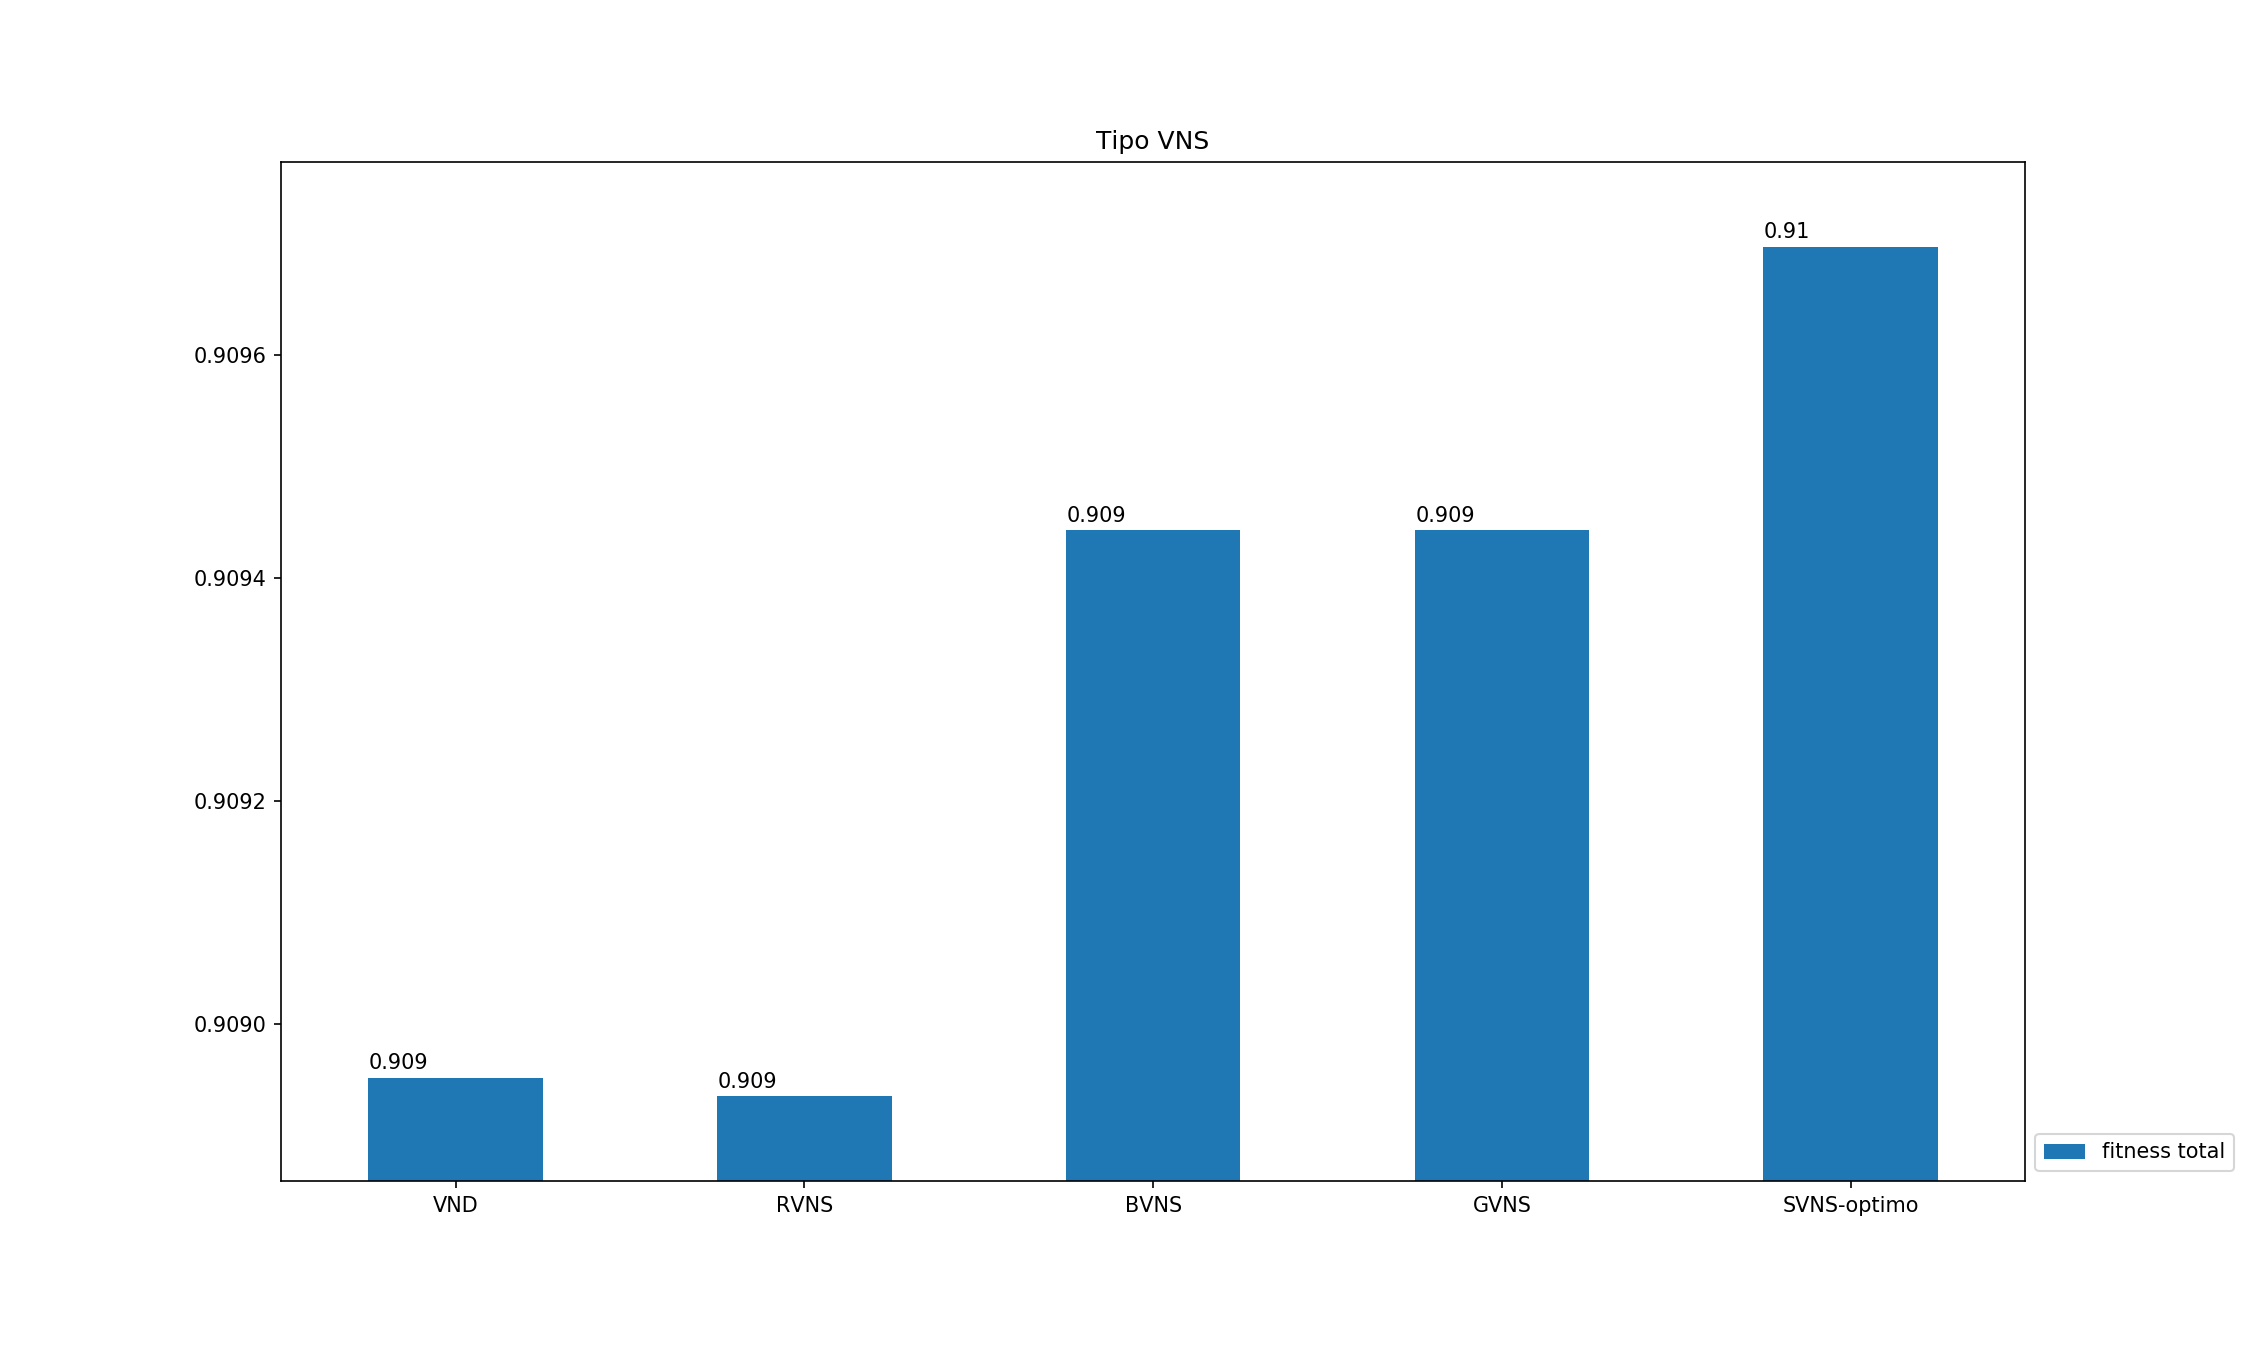
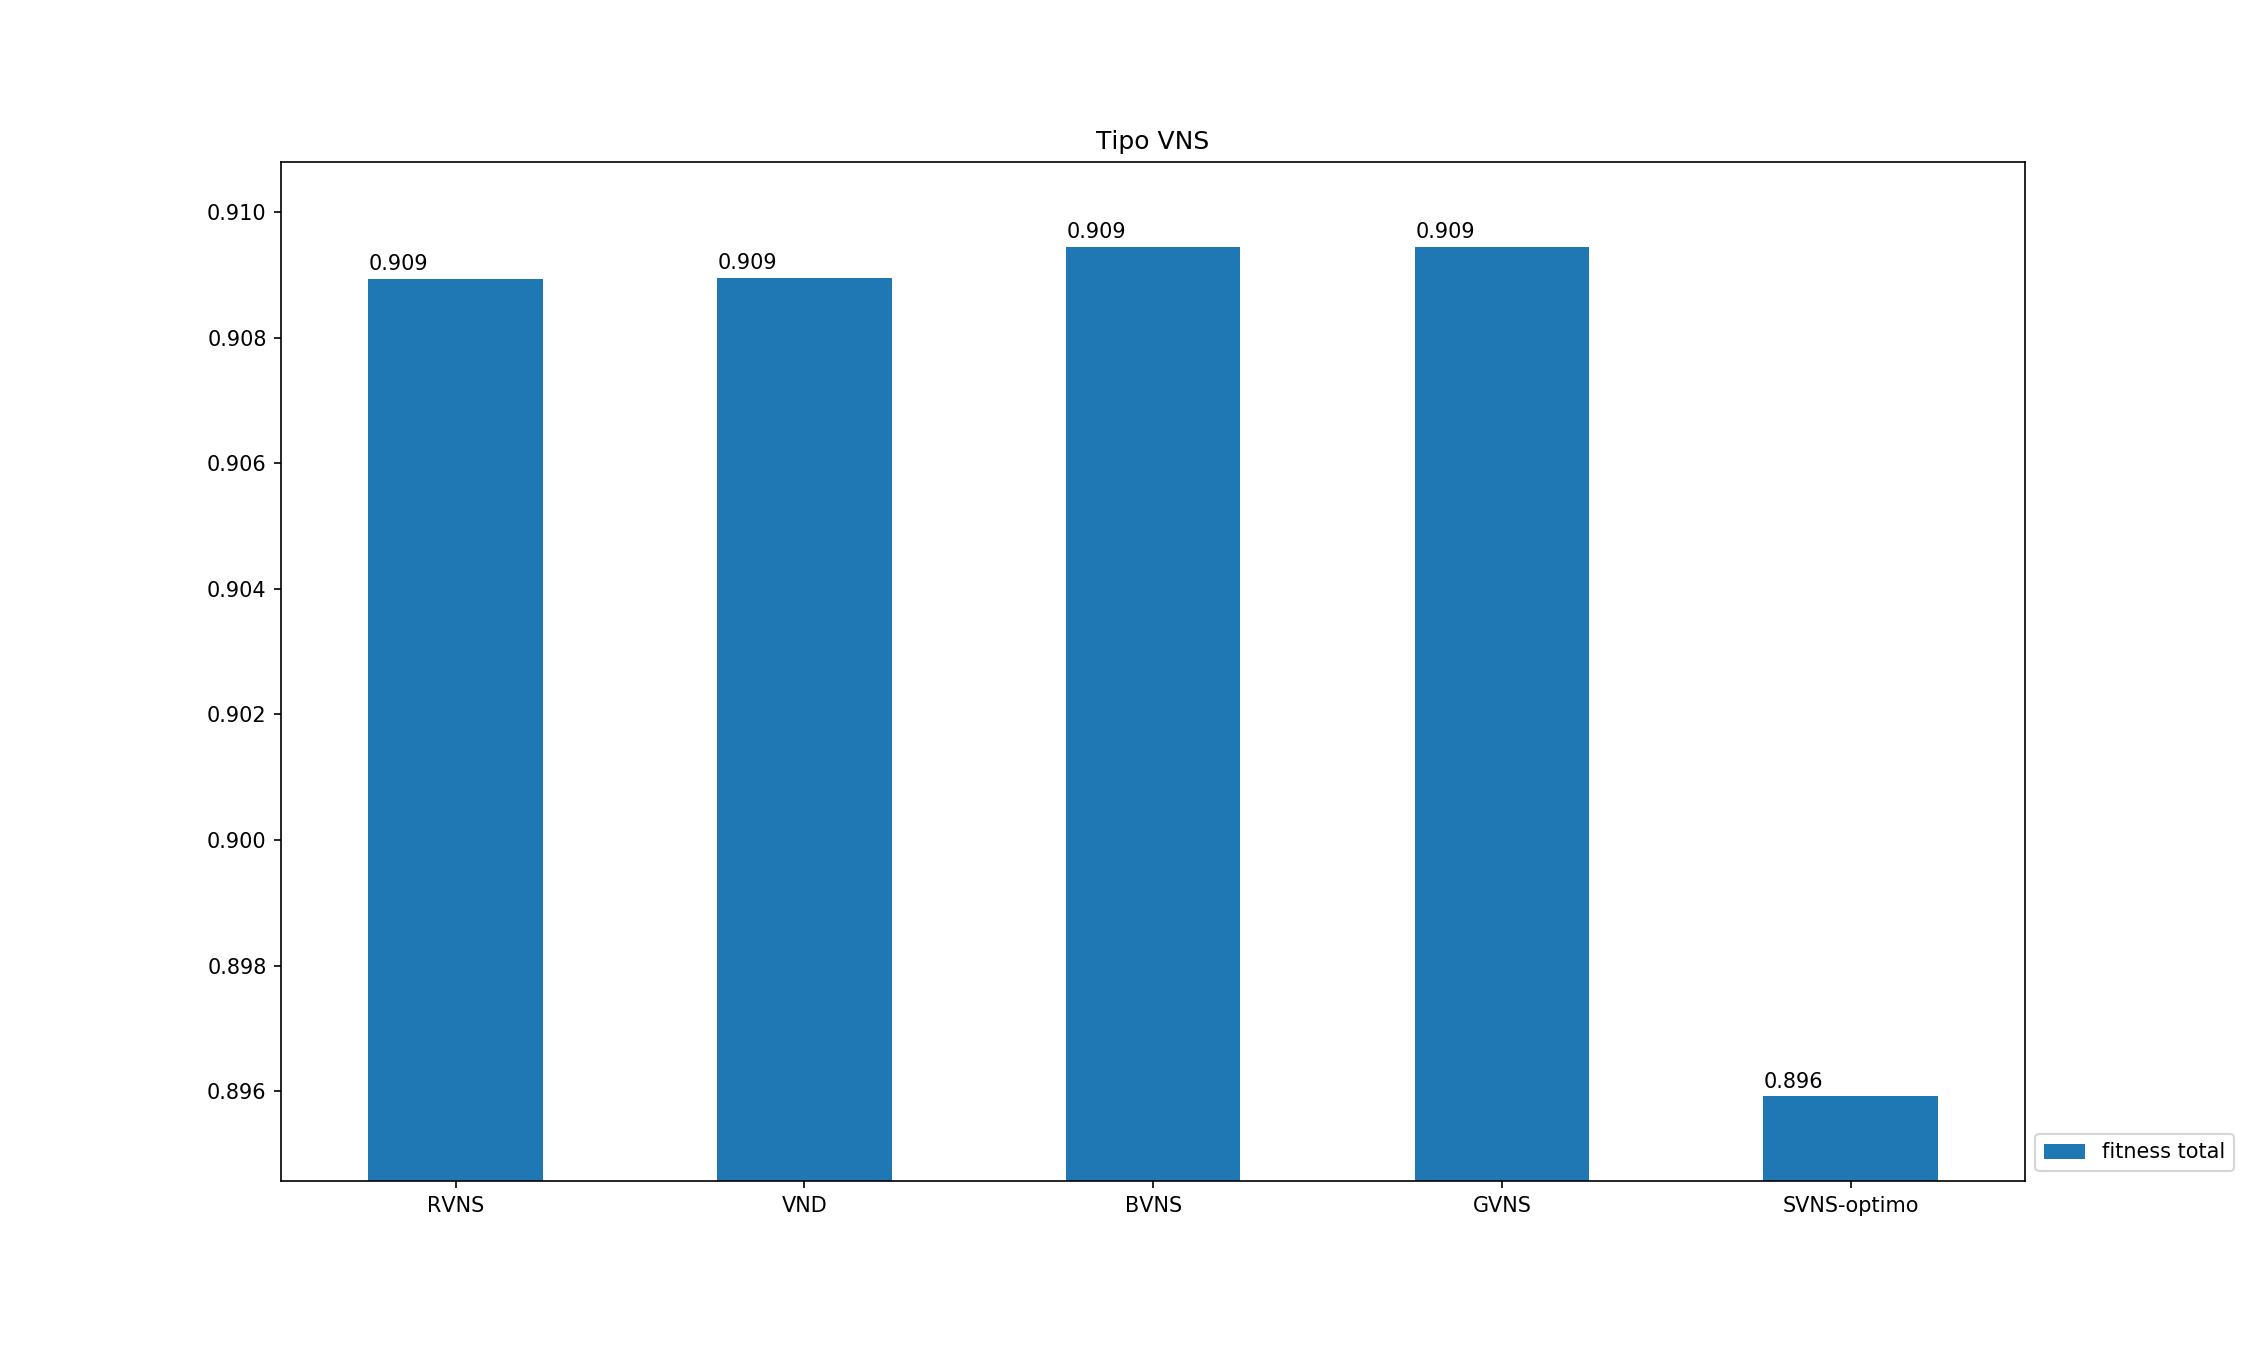
Finnished subsection Parameter Tunning
Fixed labeling errores in chapter 4

diff --git a/src/capitulos/Capitulo5-Resultados-experimentales/Capitulo5.tex b/src/capitulos/Capitulo5-Resultados-experimentales/Capitulo5.tex
@@ -95,38 +95,104 @@ El proceso que nos ocupa fue realizado siguiendo el procedimiento descrito anter
 	\label{table:5:tunning-results}
 \end{table}
 
-Como puede verse, por lo general la implementación de VNS que mejores resultados alcanza para la mayoría de los casos es su versión más sencilla: el VND. No obstante, encontrarnos en los casos X e Y %TODO
-que la versión que acepta soluciones peores, el SVNS, aporta una mejora suficientemente significativa a las soluciones que logra alcanzar el sistema. Como muestra la \autoref{caso4-tipo-orden-tiempo} las variaciones no suelen ser muy grandes entre sí.
+Como puede verse, por lo general la implementación de VNS que mejores resultados alcanza para la mayoría de los casos es su versión más sencilla: el \textit{VND}. No obstante, encontrarnos cuatro casos en los que la variante Basic, \textit{BVNS}, aporta resultados significativamente mejores en las soluciones que logra alcanzar el sistema. Sin embargo, tal y como muestra la \autoref{fig:caso4-tipo-orden-tiempo} las variaciones no suelen ser muy grandes entre sí, a escepción del \textit{SVNS}, que es el que peores resultados obtiene.
 
 \begin{figure}
 	\centering
-	\includegraphics[width=1\linewidth]{capitulos/Capitulo5-Resultados-experimentales/recursos/caso4-tipo-orden-tiempo}
+	\includegraphics[width=\linewidth]{capitulos/Capitulo5-Resultados-experimentales/recursos/caso4-tipo-orden-tiempo}
 	\caption{Variación del fitness según el tipo de VNS para el caso 4. Ordenado según el tiempo de ejecución de cada uno}
 	\label{fig:caso4-tipo-orden-tiempo}
 \end{figure}
 
-Sin embargo, esta mejora se obtiene a costa de una mayor necesidad de tiempo de cómputo, con una diferencia de $31.341$ segundos para el caso 4. Sin duda hemos observado que el VND es el tipo de VNS que menos tiempo de cómputo requiere. La \autoref{fig:caso4-tipo-orden-tiempo} ofrece adicionalmente un ranking donde nos muestra de forma ordenada los tipos de VNS que más tiempo consumen: como era de esperar, el SVNS y el GVNS son los más costosos, mientras que el VND y RVNS los que menos.
+Sin embargo, esta mejora se obtiene a costa de una mayor necesidad de tiempo de cómputo, con una diferencia de $31.2762$ segundos para el caso 4 del \textit{BVNS} frente al \textit{VND}. Sin duda hemos observado que el \textit{RVND} es el tipo de VNS que menos tiempo de cómputo requiere, pero suele ser el que peores resultados alcanza junto con el \textit{SVNS}. La \autoref{fig:caso4-tipo-orden-tiempo} ofrece adicionalmente un ranking donde nos muestra de forma ordenada los tipos de VNS que más tiempo consumen: como era de esperar, el \textit{SVNS} y el \textit{GVNS} son los más costosos, mientras que el \textit{VND} y \textit{RVNS} los que menos. Por su parte, el \textit{GVNS} y el \textit{BVNS} dan resultados que en la mayoría de los casos son muy similares entre sí, a excepción de en el caso 1 y el 3, donde los resultados son más dispares, en casos de empate, se ha optado por usar la versión menos costosa computacionalmente, que es el \textit{BVNS}.
 
-En cuanto al orden de los entornos, no hay una clara tendencia, sino que depende más bien del caso concreto. Sin embargo, la selección óptima de los mismos es claramente determinista, salvo en el caso 5 %TODO: alguno más??
-en el una comparativa nos dice que la mejoría que aporta no es demasiado grande, del orden de una milésima (véase la \autoref{fig:caso5-naturaleza-entornos}) aunque para éste caso concreto, con la opción probabilística, el número de restricciones incumplidas en la solución final es menos dispersa que en la determinista, es decir, que la diferencia entre una ejecución u otra no es tan grande como en el caso de la determinista. No obstante, para el resto de casos ésta dispersión no sucede de una forma tan significativa.
+En la \autoref{fig:caso4y9comparativa-tipos-vnsiteracion} podemos observar la evolución por iteraciones de cada VNS, donde podemos apreciar cómo, a diferencia del resto, el \textit{SVNS} no es estrictamente creciente, aceptando soluciones peores. La línea \textit{SVNS-optimo} señala la mejor solución alcanzada hasta el momento por el \textit{SVNS}, que como podemos ver, no alcanza resultados tan buenos como los del resto. Cada ejecución termina cuando se alcanza la condición de parada del porcentaje mínimo de mejora. Además, el desempeño del \textit{BVNS} y el \textit{GVNS} es el mismo en ambos casos, aunque esto no siempre sucede en todas las iteraciones ni en todos los casos.
+
+\begin{figure}
+	\begin{subfigure}{\linewidth}
+		\centering
+		\includegraphics[width=\linewidth]{Caso4_comparativa-tipos-vns_iteracion}
+		\caption{Caso 4}
+		\label{fig:caso4comparativa-tipos-vnsiteracion}
+	\end{subfigure}
+
+	\begin{subfigure}{\linewidth}
+		\centering
+		\includegraphics[width=\linewidth]{Caso9_comparativa-tipos-vns_iteracion}
+		\caption{Caso 9}
+		\label{fig:caso9comparativa-tipos-vnsiteracion}
+	\end{subfigure}
+	\caption{Evolución de cada \textbf{tipo de VNS} para una ejecución concreta del caso 4 y 9.}
+	\label{fig:caso4y9comparativa-tipos-vnsiteracion}
+\end{figure}
+
+En cuanto al orden de los entornos, no hay una clara tendencia, sino que depende más bien del caso concreto. Sin embargo, la selección óptima de los mismos es claramente determinista, salvo en el caso 5 y 9. 
+Una comparativa nos dice que la mejoría que aporta no es demasiado grande, del orden de una milésima (véase la \autoref{fig:caso5-naturaleza-entornos}) aunque para éste caso concreto, con la opción probabilística, el número de restricciones incumplidas en la solución final es menos dispersa que en la determinista, es decir, que la diferencia entre una ejecución u otra no es tan grande como en el caso de la determinista. No obstante, para el resto de casos ésta dispersión no sucede de una forma tan significativa.
 
 \begin{figure}
 	\centering
 	\includegraphics[width=1\linewidth]{caso5-naturaleza-entornos}
-	\caption{Comparación desglosada por valor de cada objetivo para el tipo de cambio de entorno en el caso 5}
+	\caption{Comparación desglosada por valor de cada objetivo para el \textbf{tipo de cambio de entorno} en el caso 5}
 	\label{fig:caso5-naturaleza-entornos}
 \end{figure}
 
+En la \autoref{fig:caso4y9determinista-vs-probabilisticoiteracion} podemos observar la evolución de una ejecución comparando el desempeño de sistema para cambios de entorno de tipo determinista y probabilístico, una vez seleccionados los parámetros óptimos relativos a este último. Se aprecia cómo para el caso 9  (\autoref{fig:caso9determinista-vs-probabilisticoiteracion}), la diferencia es significativa: el probabilístico aporta lo suficiente como para considerarlo. Sin embargo, para el caso 4 (\autoref{fig:caso4determinista-vs-probabilisticoiteracion}) el tipo de cambio de entornos determinista supera al probabilístico pero por muy poca diferencia.l
+
+\begin{figure}
+	\begin{subfigure}{\linewidth}
+		\centering
+		\includegraphics[width=1\linewidth]{capitulos/Capitulo5-Resultados-experimentales/recursos/Caso9_determinista-vs-probabilistico_iteracion}
+		\caption{Caso 9}
+		\label{fig:caso9determinista-vs-probabilisticoiteracion}
+	\end{subfigure}
+
+	\begin{subfigure}{\linewidth}
+		\centering
+		\includegraphics[width=1\linewidth]{capitulos/Capitulo5-Resultados-experimentales/recursos/Caso4_determinista-vs-probabilistico_iteracion}
+		\caption{Caso 4}
+		\label{fig:caso4determinista-vs-probabilisticoiteracion}
+	\end{subfigure}
+	\caption{Evolución del sistema para una ejecución concreta del caso 9 y 4 con \textbf{cambios de entorno} de tipo determinista o probabilistico.}
+	\label{fig:caso4y9determinista-vs-probabilisticoiteracion}
+\end{figure}
+
+
 %Observamos que los parámetros óptimos que afectan a la modalidad probabilista de los entornos se adecuan al VNS en cuanto a que, por ejemplo emplear una probabilidad inicial de $0.7$ con una variación pequeña, en lugar de una probabilidad de 1, pues el número de iteraciones no es suficientemente grande como para que 
 
-En cuanto a los demás parámetros, no hay diferencias importantes entre sí. En número de iteraciones que conforman el ciclo mínimo para comprobar la condición de parada se mueven entre $6\,000$ y $45\,000$. ... %TODO continuar
+En cuanto a los demás parámetros, no hay diferencias importantes entre sí. En número de iteraciones que conforman el ciclo mínimo para comprobar la condición de parada se mueven entre $6\,000$ y $45\,000$.
 
+La función de distancia aplicada para el \textit{SVNS} que mejores resultados alcanza es aquella que calcula el número de slots dispares entre ambas soluciones. Hemos observado que el valor del parámetro $\alpha$ óptimo oscila entre 0.5 y 2, y para tamaños superiores a 2, o bien deja de admitir soluciones peores, o bien se comporta de la misma forma que con otros valores inferiores. En la \autoref{fig:caso9comparativa-alphasiteracion0-5} podemos observar cómo se comporta la metaheurística \textit{SVNS} con diferentes $\alpha$ para el caso 9, si bien exploran de diferentes formas, no logran mejorar significativamente los resultados iniciales, aunque esto sí sucede aunque muy levemente, para el caso 3, como muestra la
+\autoref{fig:Caso3_comparativa-alphas_iteracion}.
 
+\begin{figure}
+	\begin{subfigure}{\linewidth}
+	\includegraphics[width=\linewidth]{Caso9_comparativa-alphas_iteracion_0-5}
+	\caption{Caso 9}
+	\label{fig:caso9comparativa-alphasiteracion0-5}
+	\centering
+	\end{subfigure}
 
-\NOTE{TODO: poner indicaciones de una visión genérica}% TODO: poner indicaciones de una visión genérica
+	\begin{subfigure}{\linewidth}
+	\includegraphics[width=\linewidth]{Caso3_comparativa-alphas_iteracion}
+	\caption{Caso 3}
+	\label{fig:Caso3_comparativa-alphas_iteracion}
+	\centering
+\end{subfigure}
+	\caption{Evolución comparativa del desempeño del \textit{SVNS} con diferentes \textbf{alphas} para el caso 3 y el 9.}
+\end{figure}
+
+Para el caso 3, 
+
+%A continuación describiremos algunas de las observaciones en mayor profundidad.
+%
+%\subsubsection{Comparativa de Tipos de VNS}
+%
+%Como se ha mencionado anteriormente, se han obtenido dos tipos de VNS con resultados especialmente mejores: el \textit{VND} y el \textit{BVNS}. Por lo general, la diferencia no es realmente grande, a excepción del caso 5, donde la diferencia es de 5 centésimas, sin embargo, en los casos indicados, el aporte sigue siendo significativo al conjunto, y la diferencia de tiempo
 
 \subsection{Comparación de metaheurísticas}
-Lorem ipsum
+Una vez ajustados todos los parámetros para sacar el máximo rendimiento del sistema, podemos compararlo con otros, y en este caso, se ha hecho una comparación de resultados con la metaheurística \sa{} (SA), definida en la \autoref{sec:3:metaheurística}. Recuérdese que se trata de la metaheurística empleada para el desarrollo del sistema \legacy{} y que fue adaptada a las nuevas condiciones y restricciones del sistema implementado en este TFM.
 
-\subsection{Otros experimentos}
-Lorem ipsum
+La \autoref{tabla} recopila los resultados para ambas metaheurísticas. Como podemos ver, % TODO . . . 
+
+%\subsection{Otros experimentos}
+%Lorem ipsum

diff --git a/src/capitulos/Capitulo4-Implementacion/Capitulo4.tex b/src/capitulos/Capitulo4-Implementacion/Capitulo4.tex
@@ -441,7 +441,7 @@ En el \autoref{Anexo:flame-diagram} se incluye una comparativa del rendimiento d
 %	\label{fig:4:flame-diagram}
 %\end{figure}
 
-Respecto al rendimiento general de CPU y memoria podemos ver en la \autoref{fig:4:performance-comparativa4} una comparativa de ambas gráficas. El uso de CPU es notablemente menor, mientras que el de memoria es similar pero con una tendencia incremental en lugar de continua, esto es debido al uso del mapa de soluciones, la estructura de datos que más memoria requiere.
+Respecto al rendimiento general de CPU y memoria podemos ver en la \autoref{fig:4:performance-comparativa} una comparativa de ambas gráficas. El uso de CPU es notablemente menor, mientras que el de memoria es similar pero con una tendencia incremental en lugar de continua, esto es debido al uso del mapa de soluciones, la estructura de datos que más memoria requiere.
 
 
 \begin{figure}
